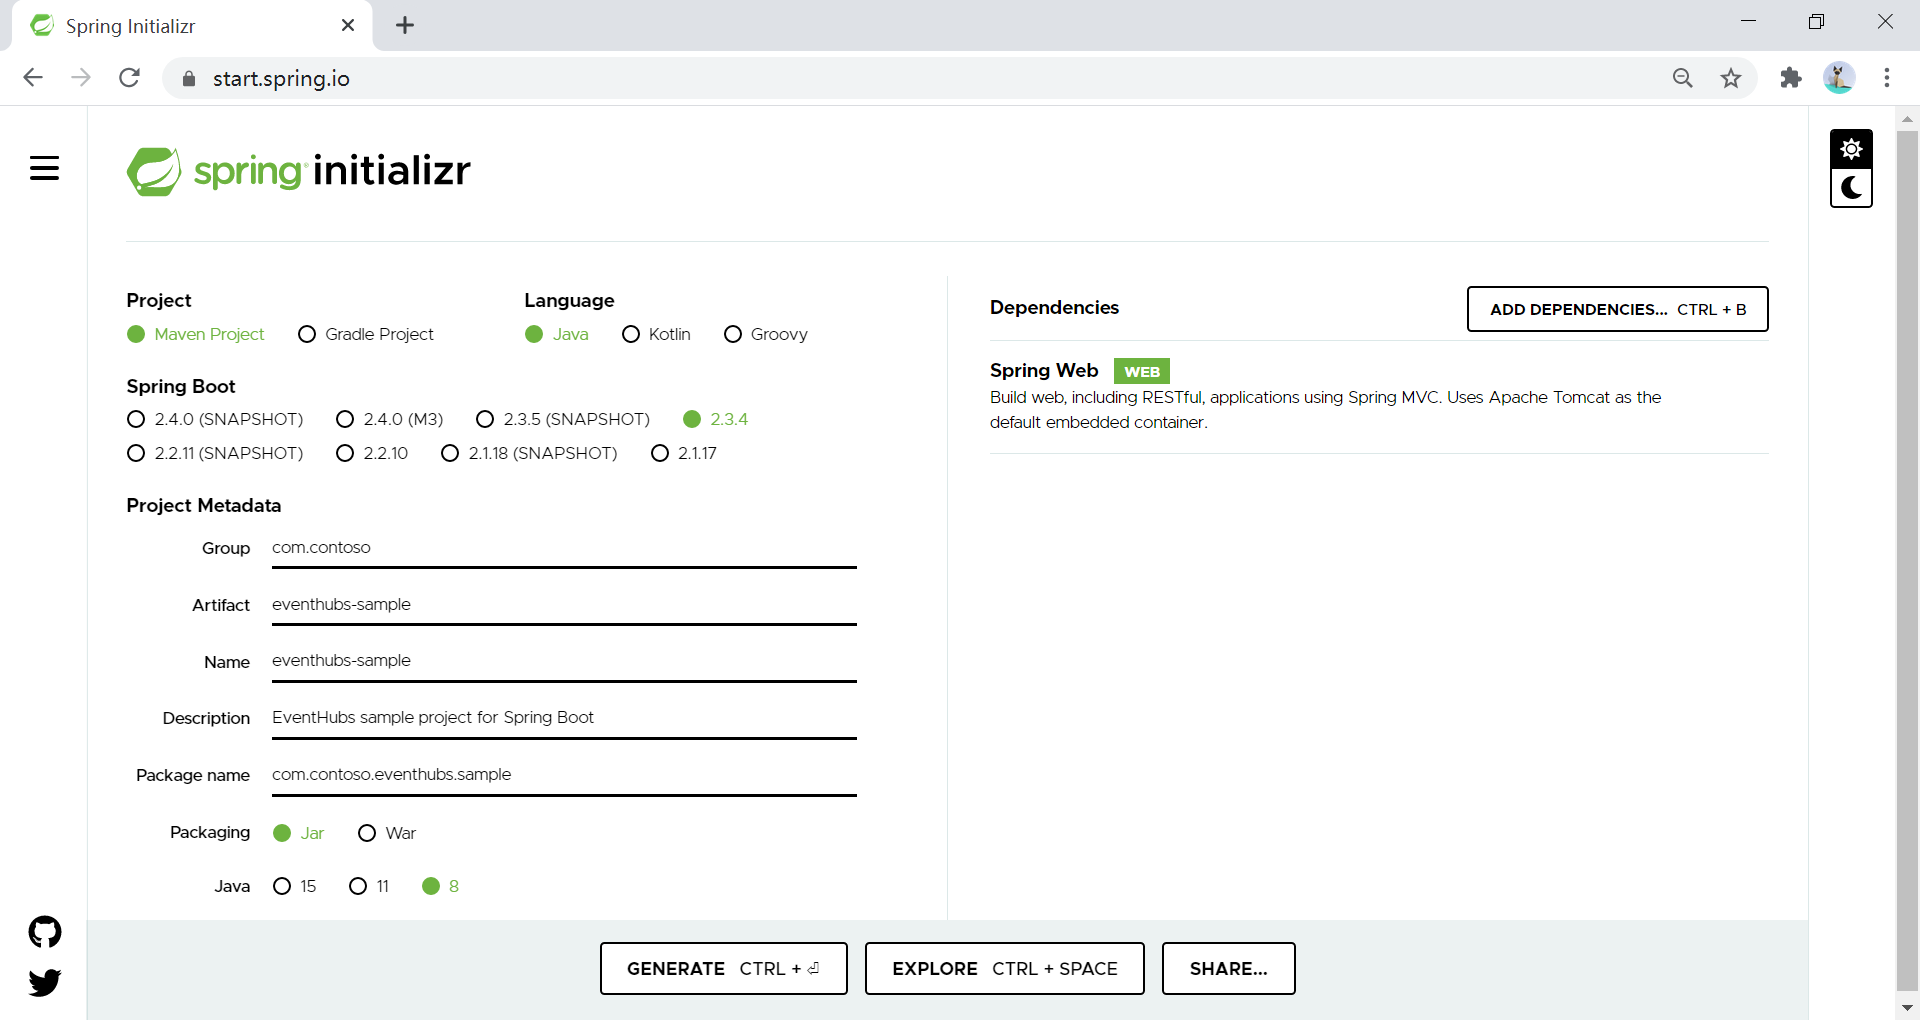
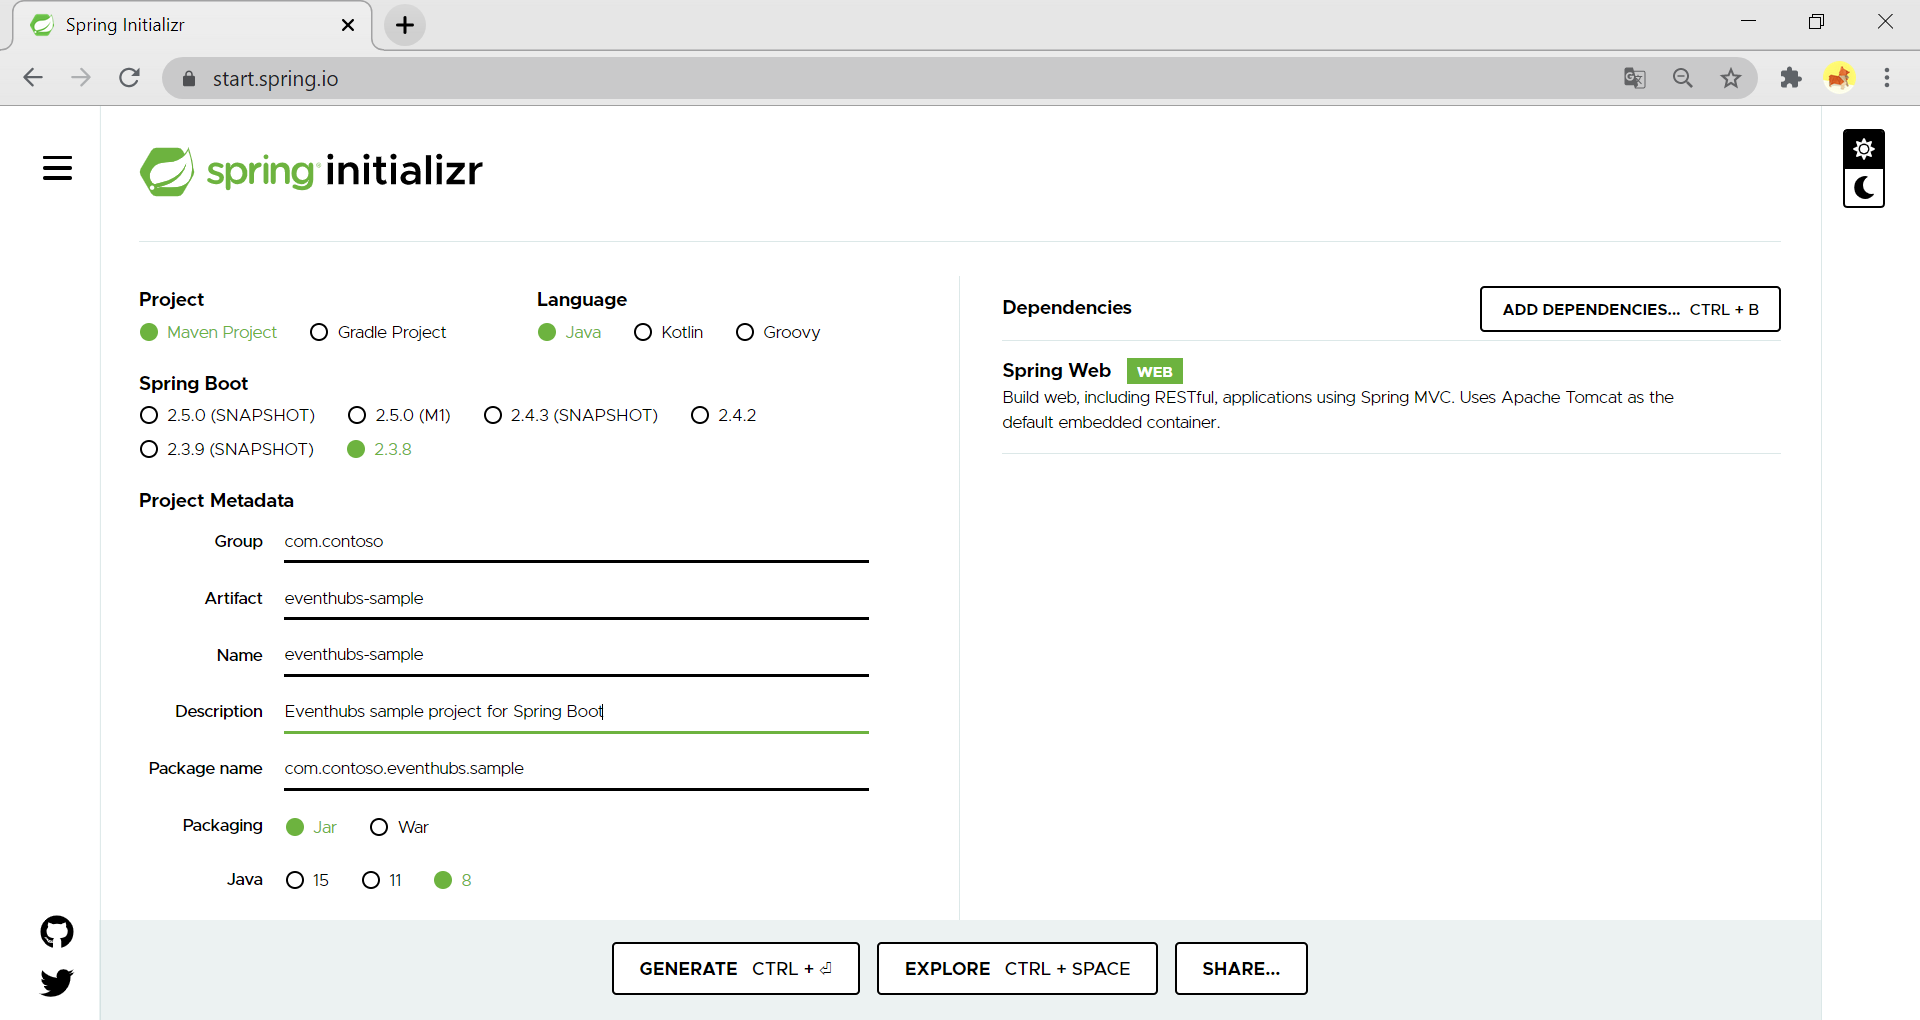
Refactor stream binder event-hub doc (#1534)

diff --git a/articles/java/spring-framework/configure-spring-cloud-stream-binder-java-app-azure-event-hub.md b/articles/java/spring-framework/configure-spring-cloud-stream-binder-java-app-azure-event-hub.md
@@ -3,7 +3,7 @@ title: How to create a Spring Cloud Stream Binder application with Azure Event H
 description: Learn how to configure a Java-based Spring Cloud Stream Binder application created with the Spring Boot Initializr with Azure Event Hubs.
 services: event-hubs
 documentationcenter: java
-ms.date: 10/13/2020
+ms.date: 02/08/2021
 ms.service: event-hubs
 ms.tgt_pltfrm: na
 ms.topic: article
@@ -21,7 +21,7 @@ This article demonstrates how to configure a Java-based Spring Cloud Stream Bind
 * [Apache Maven](http://maven.apache.org/), version 3.0 or later.
 
 > [!IMPORTANT]
-> Spring Boot version 2.2 or greater is required to complete the steps in this article.
+> Spring Boot version 2.2 or 2.3 is required to complete the steps in this article.
 
 ## Create an Azure Event Hub using the Azure portal
 
@@ -98,7 +98,7 @@ The following procedure creates a Spring boot application.
 1. Specify the following options:
 
    * Generate a **Maven** project with **Java**.
-   * Specify a **Spring Boot** version that is equal to or greater than 2.2.
+   * Specify a **Spring Boot** version that is equal to **2.3**.
    * Specify the **Group** and **Artifact** names for your application.
    * Select **8** for the Java version.
    * Add the *Web* dependency.
@@ -129,9 +129,9 @@ The following procedure creates a Spring boot application.
 
    ```xml
    <dependency>
-      <groupId>com.microsoft.azure</groupId>
-      <artifactId>spring-cloud-azure-eventhubs-stream-binder</artifactId>
-      <version>1.2.7</version>
+     <groupId>com.azure.spring</groupId>
+     <artifactId>azure-spring-cloud-stream-binder-eventhubs</artifactId>
+     <version>2.1.0</version>
    </dependency>
    ```
 
@@ -153,118 +153,65 @@ The following procedure creates a Spring boot application.
 
 1. Save and close the *pom.xml* file.
 
-## Create an Azure Credential File
-
-1. Open a command prompt.
-
-1. Navigate to the *resources* directory of your Spring Boot app; for example:
-
-   ```cmd
-   cd C:\SpringBoot\eventhubs-sample\src\main\resources
-   ```
-
-   -or-
-
-   ```bash
-   cd /users/example/home/eventhubs-sample/src/main/resources
-   ```
-
-1. Sign in to your Azure account:
-
-   ```azurecli
-   az login
-   ```
-
-1. List your subscriptions:
-
-   ```azurecli
-   az account list
-   ```
-   Azure will return a list of your subscriptions, and you will need to copy the GUID for the subscription that you want to use; for example:
-
-   ```json
-   [
-     {
-       "cloudName": "AzureCloud",
-       "id": "11111111-1111-1111-1111-111111111111",
-       "isDefault": true,
-       "name": "Converted Windows Azure MSDN - Visual Studio Ultimate",
-       "state": "Enabled",
-       "tenantId": "22222222-2222-2222-2222-222222222222",
-       "user": {
-         "name": "user@contoso.com",
-         "type": "user"
-       }
-     }
-   ]
-   ```
-   
-1. Specify the GUID for the subscription you want to use with Azure; for example:
-
-   ```azurecli
-   az account set -s 11111111-1111-1111-1111-111111111111
-   ```
-
-1. Create your Azure Credential file:
-
-   ```azurecli
-   az ad sp create-for-rbac --sdk-auth > my.azureauth
-   ```
-
-   This command will create a *my.azureauth* file in your *resources* directory with contents that resemble the following example:
-
-   ```json
-   {
-     "clientId": "33333333-3333-3333-3333-333333333333",
-     "clientSecret": "44444444-4444-4444-4444-444444444444",
-     "subscriptionId": "11111111-1111-1111-1111-111111111111",
-     "tenantId": "22222222-2222-2222-2222-222222222222",
-     "activeDirectoryEndpointUrl": "https://login.microsoftonline.com",
-     "resourceManagerEndpointUrl": "https://management.azure.com/",
-     "activeDirectoryGraphResourceId": "https://graph.windows.net/",
-     "sqlManagementEndpointUrl": "https://management.core.windows.net:8443/",
-     "galleryEndpointUrl": "https://gallery.azure.com/",
-     "managementEndpointUrl": "https://management.core.windows.net/"
-   }
-   ```
-
 ## Configure your Spring Boot app to use your Azure Event Hub
 
-1. Locate the *application.properties* in the *resources* directory of your app; for example:
+1. Locate the *application.yaml* in the *resources* directory of your app; for example:
 
-   *C:\SpringBoot\eventhubs-sample\src\main\resources\application.properties*
+   *C:\SpringBoot\eventhubs-sample\src\main\resources\application.yaml*
 
    -or-
 
-   */users/example/home/eventhubs-sample/src/main/resources/application.properties*
+   */users/example/home/eventhubs-sample/src/main/resources/application.yaml*
 
-2. Open the *application.properties* file in a text editor, add the following lines, and then replace the sample values with the appropriate properties for your event hub:
+2. Open the *application.yaml* file in a text editor, add the following lines, and then replace the sample values with the appropriate properties for your event hub:
 
    ```yaml
-   spring.cloud.azure.credential-file-path=my.azureauth
-   spring.cloud.azure.resource-group=wingtiptoysresources
-   spring.cloud.azure.region=West US
-   spring.cloud.azure.eventhub.namespace=wingtiptoysnamespace
-   spring.cloud.azure.eventhub.checkpoint-storage-account=wingtiptoysstorage
-   spring.cloud.stream.bindings.input.destination=wingtiptoyshub
-   spring.cloud.stream.bindings.input.group=$Default
-   spring.cloud.stream.eventhub.bindings.input.consumer.checkpoint-mode=MANUAL
-   spring.cloud.stream.bindings.output.destination=wingtiptoyshub
+    spring:
+      cloud:
+        azure:
+          eventhub:
+            connection-string: [eventhub-namespace-connection-string]
+            checkpoint-storage-account: wingtiptoysstorage
+            checkpoint-access-key: [checkpoint-access-key]
+            checkpoint-container: wingtiptoyscontainer
+            
+        stream:
+          bindings:
+            consume-in-0:
+              destination: wingtiptoyshub
+              group: $Default
+            supply-out-0:
+              destination: wingtiptoyshub
+   
+          eventhub:
+            bindings:
+              consume-in-0:
+                consumer:
+                  checkpoint-mode: MANUAL
+          function:
+            definition: consume;supply;
+          poller:
+            initial-delay: 0
+            fixed-delay: 1000
    ```
+
    Where:
 
    |                          Field                           |                                                                                   Description                                                                                    |
    |----------------------------------------------------------|----------------------------------------------------------------------------------------------------------------------------------------------------------------------------------|
-   |        `spring.cloud.azure.credential-file-path`         |                                                    Specifies Azure credential file that you created earlier in this tutorial.                                                    |
-   |           `spring.cloud.azure.resource-group`            |                                                      Specifies the Azure Resource Group that contains your Azure Event Hub.                                                      |
-   |               `spring.cloud.azure.region`                |                                           Specifies the geographical region that you specified when you created your Azure Event Hub.                                            |
-   |         `spring.cloud.azure.eventhub.namespace`          |                                          Specifies the unique name that you specified when you created your Azure Event Hub Namespace.                                           |
-   | `spring.cloud.azure.eventhub.checkpoint-storage-account` |                                                    Specifies Azure Storage Account that you created earlier in this tutorial.                                                    |
-   |     `spring.cloud.stream.bindings.input.destination`     |                            Specifies the input destination Azure Event Hub, which for this tutorial is the  hub you created earlier in this tutorial.                            |
-   |       `spring.cloud.stream.bindings.input.group `        | Specifies a Consumer Group from Azure Event Hub, which can be set to '$Default' in order to use the basic consumer group that was created when you created your Azure Event Hub. |
-   |    `spring.cloud.stream.bindings.output.destination`     |                               Specifies the output destination Azure Event Hub, which for this tutorial will be the same as the input destination.                               |
+   |               `spring.cloud.azure.eventhub.connection-string`                |                                        Specify the connection string you obtained in your Event Hub namespace from the Azure portal.                                   |
+   |               `spring.cloud.azure.function.definition`                |                                        Specify which functional bean to bind to the external destination(s) exposed by the bindings.                                   |
+   |               `spring.cloud.azure.poller.fixed-delay`                |                                        Specify fixed delay for default poller in milliseconds, default 1000L.                                   |
+   |               `spring.cloud.azure.poller.initial-delay`                |                                       Specify initial delay for periodic triggers, default 0.                                   |
+   |               `spring.cloud.stream.bindings.consume-in-0.destination`                 |                            Specify the Event Hub you used in this tutorial.                         |
+   |               `spring.cloud.stream.bindings.consume-in-0.group`                    |                               Specify the Consumer groups in your Event Hubs Instance  .                                |
+   |               `spring.cloud.stream.bindings.supply-out-0.destination`                |                             Specify the same Event Hub you used in this tutorial.                        |
+   | `spring.cloud.stream.eventhub.bindings.consume-in-0.consumer.checkpoint-mode` |                                                       Specify `MANUAL`.                                                   |
+   |               `spring.cloud.stream.eventhub.checkpoint-access-key` |                                                      Specify the access-key of your storage account.                                                   |
+   |               `spring.cloud.stream.eventhub.checkpoint-container` |                                                       Specify the container of your storage account.                                                   |
+   |               `spring.cloud.stream.eventhub.checkpoint-storage-account` |                                                 Specify the storage account you created in this tutorial.                                               |
 
-3. Save and close the *application.properties* file.
+3. Save and close the *application.yaml* file.
 
 ## Add sample code to implement basic event hub functionality
 
@@ -274,25 +221,48 @@ In this section, you create the necessary Java classes for sending events to you
 
 1. Locate the main application Java file in the package directory of your app; for example:
 
-   *C:\SpringBoot\eventhubs-sample\src\main\java\com\wingtiptoys\eventhub\EventhubApplication.java*
+   *C:\SpringBoot\eventhubs-sample\src\main\java\com\contoso\eventhubs\sample\EventhubSampleApplication.java*
 
    -or-
 
-   */users/example/home/eventhubs-sample/src/main/java/com/wingtiptoys/eventhub/EventhubApplication.java*
+   */users/example/home/eventhubs-sample/src/main/java/com/contoso/eventhubs/sample/EventhubSampleApplication.java*
 
 1. Open the main application Java file in a text editor, and add the following lines to the file:
 
    ```java
     package com.contoso.eventhubs.sample;
     
+    import com.azure.spring.integration.core.api.reactor.Checkpointer;
+    import org.slf4j.Logger;
+    import org.slf4j.LoggerFactory;
     import org.springframework.boot.SpringApplication;
     import org.springframework.boot.autoconfigure.SpringBootApplication;
+    import org.springframework.context.annotation.Bean;
+    import org.springframework.messaging.Message;
+    
+    import java.util.function.Consumer;
+    
+    import static com.azure.spring.integration.core.AzureHeaders.CHECKPOINTER;
     
     @SpringBootApplication
-    public class EventhubsSampleApplication {
+    public class EventhubSampleApplication {
     
-        public static void main(String[] args) {
-            SpringApplication.run(EventhubsSampleApplication.class, args);
+        public static final Logger LOGGER = LoggerFactory.getLogger(EventhubSampleApplication.class);
+    
+    	public static void main(String[] args) {
+    		SpringApplication.run(EventhubSampleApplication.class, args);
+    	}
+    
+        @Bean
+        public Consumer<Message<String>> consume() {
+            return message -> {
+                Checkpointer checkpointer = (Checkpointer) message.getHeaders().get(CHECKPOINTER);
+                LOGGER.info("New message received: '{}'", message);
+                checkpointer.success()
+                            .doOnSuccess(success -> LOGGER.info("Message '{}' successfully checkpointed", message))
+                            .doOnError(error -> LOGGER.error("Exception: {}", error.getMessage()))
+                            .subscribe();
+            };
         }
     
     }
@@ -300,72 +270,79 @@ In this section, you create the necessary Java classes for sending events to you
 
 1. Save and close the main application Java file.
 
-### Create a new class for the source connector
+### Create a new configuration class
 
-1. Create a new Java file named *EventhubSource.java* in the package directory of your app, then open the file in a text editor and add the following lines:
+1. Create a new Java file named *EventProducerConfiguration.java* in the package directory of your app, then open the file in a text editor and add the following lines:
 
     ```java
     package com.contoso.eventhubs.sample;
     
-    import org.springframework.beans.factory.annotation.Autowired;
-    import org.springframework.cloud.stream.annotation.EnableBinding;
-    import org.springframework.cloud.stream.messaging.Source;
-    import org.springframework.messaging.support.GenericMessage;
-    import org.springframework.web.bind.annotation.PostMapping;
-    import org.springframework.web.bind.annotation.RequestBody;
-    import org.springframework.web.bind.annotation.RestController;
+    import org.slf4j.Logger;
+    import org.slf4j.LoggerFactory;
+    import org.springframework.context.annotation.Bean;
+    import org.springframework.context.annotation.Configuration;
+    import org.springframework.messaging.Message;
+    import reactor.core.publisher.EmitterProcessor;
+    import reactor.core.publisher.Flux;
     
-    @EnableBinding(Source.class)
-    @RestController
-    public class EventhubSource {
+    import java.util.function.Supplier;
     
-        @Autowired
-        private Source source;
+    @Configuration
+    public class EventProducerConfiguration {
     
-        @PostMapping("/messages")
-        public String postMessage(@RequestBody String message) {
-            this.source.output().send(new GenericMessage<>(message));
-            return message;
+        private static final Logger LOGGER = LoggerFactory.getLogger(EventProducerConfiguration.class);
+    
+        @Bean
+        public EmitterProcessor<Message<String>> emitter() {
+            return EmitterProcessor.create();
+        }
+    
+        @Bean
+        public Supplier<Flux<Message<String>>> supply(EmitterProcessor<Message<String>> emitter) {
+            return () -> Flux.from(emitter)
+                             .doOnNext(m -> LOGGER.info("Manually sending message {}", m))
+                             .doOnError(t -> LOGGER.error("Error encountered", t));
         }
     }
     ```
-1. Save and close the *EventhubSource.java* file.
+1. Save and close the *EventProducerConfiguration.java* file.
 
-### Create a new class for the sink connector
+### Create a new controller class
 
-1. Create a new Java file named *EventhubSink.java* in the package directory of your app, then open the file in a text editor and add the following lines:
+1. Create a new Java file named *EventProducerController.java* in the package directory of your app, then open the file in a text editor and add the following lines:
 
    ```java
    package com.contoso.eventhubs.sample;
-
-   import com.microsoft.azure.spring.integration.core.AzureHeaders;
-   import com.microsoft.azure.spring.integration.core.api.reactor.Checkpointer;
+   
    import org.slf4j.Logger;
    import org.slf4j.LoggerFactory;
-   import org.springframework.cloud.stream.annotation.EnableBinding;
-   import org.springframework.cloud.stream.annotation.StreamListener;
-   import org.springframework.cloud.stream.messaging.Sink;
-   import org.springframework.messaging.handler.annotation.Header;
-
-   @EnableBinding(Sink.class)
-   public class EventhubSink {
-
-      private static final Logger LOGGER = LoggerFactory.getLogger(EventhubSink.class);
-
-      @StreamListener(Sink.INPUT)
-      public void handleMessage(String message, @Header(AzureHeaders.CHECKPOINTER) Checkpointer checkpointer) {
-        LOGGER.info("New message received: '{}'", message);
-        checkpointer.success()
-                .doOnSuccess(s -> LOGGER.info("Message '{}' successfully checkpointed", message))
-                .doOnError((msg) -> {
-                    LOGGER.error(String.valueOf(msg));
-                })
-                .subscribe();
-      }
+   import org.springframework.beans.factory.annotation.Autowired;
+   import org.springframework.http.ResponseEntity;
+   import org.springframework.messaging.Message;
+   import org.springframework.messaging.support.MessageBuilder;
+   import org.springframework.web.bind.annotation.PostMapping;
+   import org.springframework.web.bind.annotation.RequestBody;
+   import org.springframework.web.bind.annotation.RestController;
+   import reactor.core.publisher.EmitterProcessor;
+   
+   @RestController
+   public class EventProducerController {
+   
+       public static final Logger LOGGER = LoggerFactory.getLogger(EventProducerController.class);
+   
+       @Autowired
+       private EmitterProcessor<Message<String>> emitterProcessor;
+   
+       @PostMapping("/messages")
+       public ResponseEntity<String> sendMessage(@RequestBody String message) {
+           LOGGER.info("Going to add message {} to emitter", message);
+           emitterProcessor.onNext(MessageBuilder.withPayload(message).build());
+           return ResponseEntity.ok("Sent!");
+       }
    }
    ```
 
-1. Save and close the *EventhubSink.java* file.
+1. Save and close the *EventProducerController.java* file.
 
 ## Build and test your application
 
@@ -397,8 +374,8 @@ Use the following procedures to build and test your application.
    You should see "hello" posted to your application's logs. For example:
 
    ```output
-   2020-09-11 15:11:12.138  INFO 7616 --- [      elastic-4] c.contoso.eventhubs.sample.EventhubSink  : New message received: 'hello'
-   2020-09-11 15:11:12.406  INFO 7616 --- [ctor-http-nio-1] c.contoso.eventhubs.sample.EventhubSink  : Message 'hello' successfully checkpointed
+   2020-09-11 15:11:12.138  INFO 7616 --- [      elastic-4] c.contoso.eventhubs.sample.EventhubSampleApplication  : New message received: 'hello'
+   2020-09-11 15:11:12.406  INFO 7616 --- [ctor-http-nio-1] c.contoso.eventhubs.sample.EventhubSampleApplication  : Message 'hello' successfully checkpointed
    ```
 
 ## Next steps
